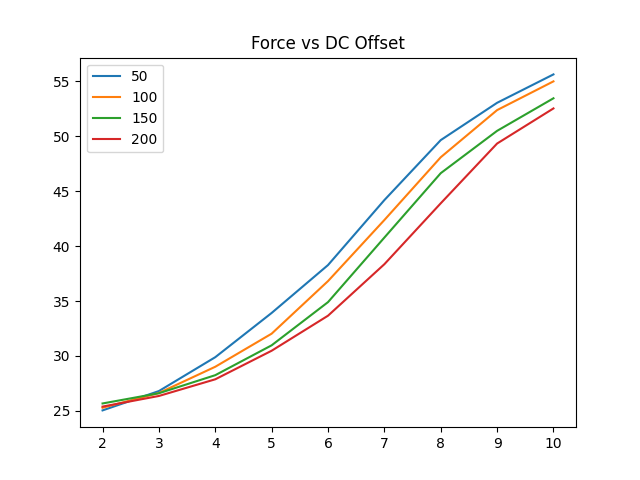
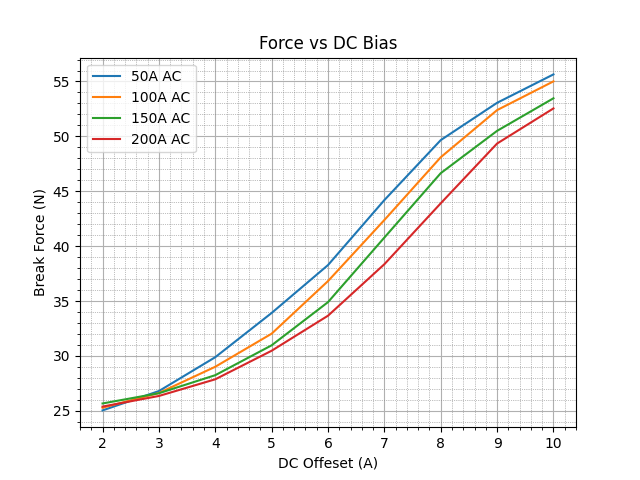
nice force plotty plots

diff --git a/ProcessData.py b/ProcessData.py
@@ -19,7 +19,9 @@ with open(filename, 'r') as file:
 
 
 plt.figure()
-plt.title('Force vs DC Offset')
+plt.title('Force vs DC')
+plt.xlabel("DC Offeset (A)")
+plt.ylabel("Break Force (N)")
 
 # #get 0AC trend, ignore first element which is 0AC header
 # y = data[1][1:]
@@ -32,16 +34,22 @@ x = []
 for num in data[0]:
     x.append(float(num))
 
-
-
+plt.grid(True)
+# Enable minor gridlines
+plt.minorticks_on()  # Turn on the minor ticks
+plt.grid(which='minor', color='gray', linestyle=':', linewidth=0.5)  # Customize minor gridlines
 
 plt.plot(x,y)
 plt.savefig("Force-data.png")
 
+
+
+#####---------------------------------------------------------------------------
 # do again for AC
 plt.figure()
-plt.title('Force vs DC Offset')
-
+plt.title('Force vs DC Bias')
+plt.xlabel("DC Offeset (A)")
+plt.ylabel("Break Force (N)")
 
 x = []
 for num in data[0]:
@@ -52,7 +60,12 @@ for i in range(2,6):
     for num in data[i][1:]:
         y.append(float(num))
 
-    plt.plot(x,y,label = data[i][0])
+    plt.plot(x,y,label = data[i][0] + "A AC")
     y = []
+plt.grid(True)
+# Enable minor gridlines
+plt.minorticks_on()  # Turn on the minor ticks
+plt.grid(which='minor', color='gray', linestyle=':', linewidth=0.5)  # Customize minor gridlines
+
 plt.legend()
 plt.savefig("Force-data-ac.png")
